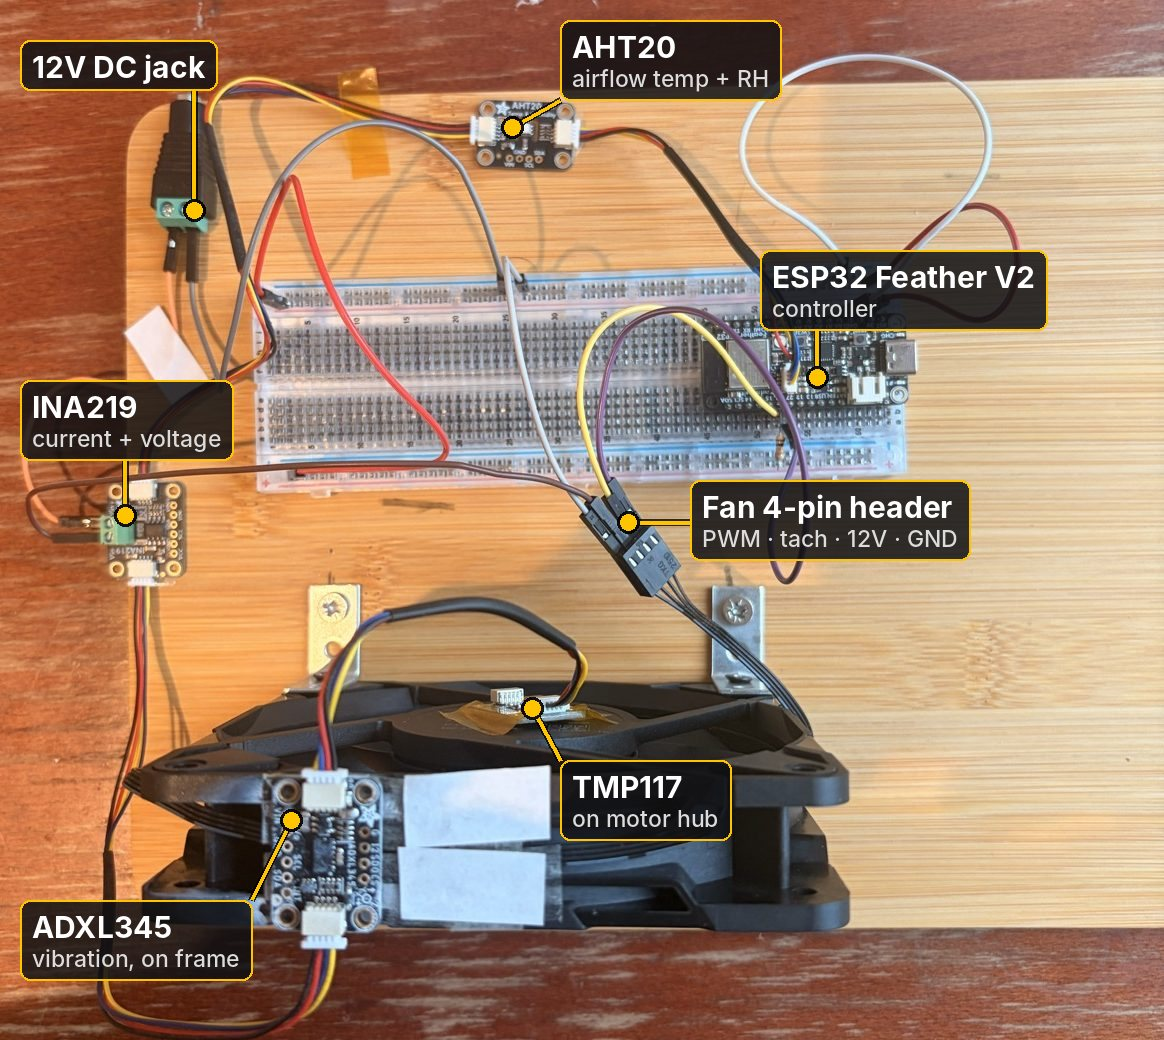
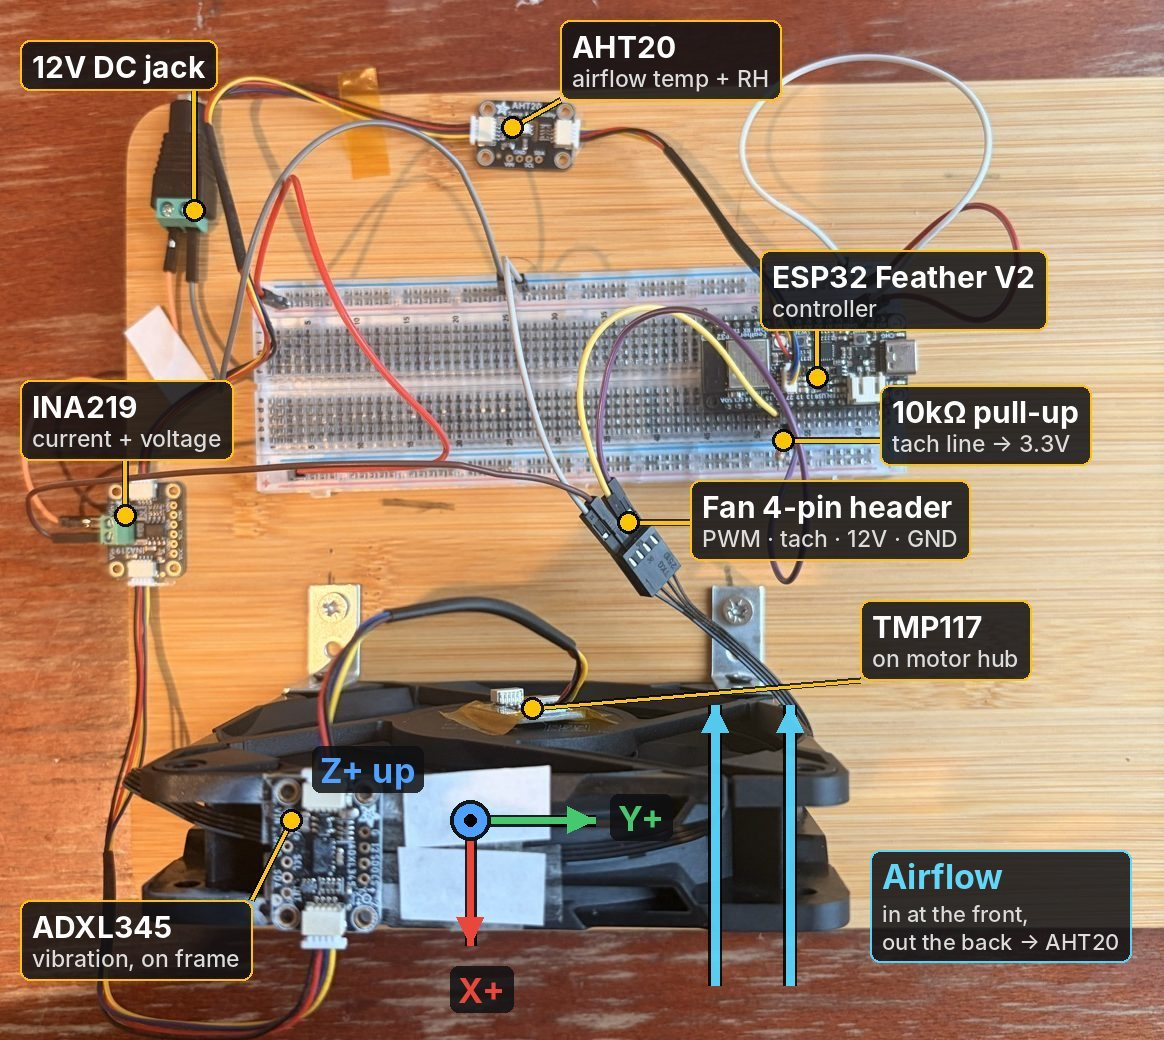
Add hardware doc: parts, wiring, sensor placement and results

diff --git a/docs/00-hardware.md b/docs/00-hardware.md
@@ -1,0 +1,152 @@
+# Phase 0: Hardware
+
+The rig is a 120mm PC fan instrumented with five sensors and controlled by an ESP32. It produces the live data every later phase uses.
+
+![Top-down view of the rig](/docs/images/rig-top.jpg)
+
+## Parts list
+
+| Part | Qty | Purpose | Supplier | Price paid |
+|---|---|---|---|---|
+| Adafruit ESP32 Feather V2 | 1 | Controller: reads sensors, drives the fan, Wi-Fi | [The Pi Hut](https://thepihut.com/products/adafruit-esp32-feather-v2-with-headers-8mb-flash-2-mb-psram-stemma-qt) | £20.20 |
+| Arctic P12 Pro (4-pin PWM, 600–3,000 RPM, 12V 0.33A) | 1 | The fan: the equipment being monitored | [Amazon UK](https://amzn.eu/d/000mpiWH) | £7.99 |
+| Adafruit ADXL345 (STEMMA QT) | 1 | Vibration (3-axis accelerometer) | [The Pi Hut](https://thepihut.com/collections/maker-store/products/adafruit-adxl345-triple-axis-accelerometer-2g-4g-8g-16g-w-i2c-spi) | £16.80 |
+| Adafruit INA219 (STEMMA QT) | 1 | Fan current and voltage | [The Pi Hut](https://thepihut.com/products/adafruit-ina219-high-side-dc-current-sensor-breakout-26v-3-2a-max) | £9.60 |
+| Adafruit TMP117 (STEMMA QT) | 1 | Motor hub temperature (±0.1°C) | [The Pi Hut](https://thepihut.com/products/adafruit-tmp117-0-1-c-high-accuracy-i2c-temperature-sensor) | £11.10 |
+| Adafruit AHT20 (STEMMA QT) | 1 | Airflow temperature and humidity | [The Pi Hut](https://thepihut.com/products/adafruit-aht20-temperature-humidity-sensor-breakout-board) | £4.40 |
+| STEMMA QT cable, 100mm | 3 | I²C daisy chain | [The Pi Hut](https://thepihut.com/collections/maker-store/products/stemma-qt-qwiic-jst-sh-4-pin-cable-100mm-long) | £1.00 each |
+| STEMMA QT cable, 200mm | 2 | I²C daisy chain (longer runs) | [The Pi Hut](https://thepihut.com/collections/maker-store/products/stemma-qt-qwiic-jst-sh-4-pin-cable-200mm-long) | £1.00 each |
+| 12V 2A power supply, 5.5×2.1mm barrel | 1 | Fan power | [The Pi Hut](https://thepihut.com/products/12v-2a-power-supply-with-2-1mm-barrel-jack) | £12.50 |
+| Female DC jack to screw terminal, 5.5×2.1mm | 1 | Connects the supply to jumper wires | [Amazon UK](https://amzn.eu/d/09xDz482) | £3.99 (pack of 10, M/F) |
+| Full-size breadboard | 1 | Wiring | [The Pi Hut](https://thepihut.com/collections/maker-store/products/full-sized-breadboard-transparent) | £5.00 |
+| Jumper wires (M–M, M–F, F–F) | 1 set | Wiring (only M–M needed) | [The Pi Hut](https://thepihut.com/products/maker-essentials-mini-breadboards-jumper-jerky) | £11.10 |
+| 10kΩ resistors, pack of 25 | 1 | Tach pull-up | [The Pi Hut](https://thepihut.com/products/through-hole-resistors-10k-ohm-5-1-4w-pack-of-25) | £0.80 |
+| USB-C to USB-C cable, 1m (data, not charge-only) | 1 | Power and serial to the computer | [The Pi Hut](https://thepihut.com/products/usb-c-to-usb-c-cable-white?variant=42520371069123) | £3.50 |
+| L-brackets + screws | 2 | Fan mount | [Amazon UK](https://www.amazon.co.uk/dp/B0CRRDJR8L) | £5.99 (pack of 32) |
+| Kapton (heat-resistant) tape | — | Holding the TMP117 on the hub; tidying cables | [Amazon UK](https://www.amazon.co.uk/dp/B0G2LBZPT2) | £3.39 |
+| Thermal conductive silicone pads | 1 pack of 6 | Thermal contact between the TMP117 chip and the motor hub | [Amazon UK](https://www.amazon.co.uk/dp/B07X38254H) | £5.55 |
+| Double-sided tape | — | Mounting the sensor boards to the base | [Amazon UK](https://www.amazon.co.uk/dp/B004JRM99K) | £3.75 |
+| Superglue | — | Rigidly fixing the ADXL345 to the fan frame | Any | — |
+| Wooden board (a chopping board 😉) | 1 | Base | [Amazon UK](https://www.amazon.co.uk/dp/B0DRYF9GVZ) | £7.21 |
+
+**Total:** about £142 for parts (including £3.80 Pi Hut shipping), plus tools.
+
+### Tools
+
+| Tool | Used for | Link |
+|---|---|---|
+| Precision screwdriver set | Screw terminals on the DC jack and INA219 | [Amazon UK](https://www.amazon.co.uk/dp/B0D633J3C7) (£10.99) |
+| Drill + screwdriver | Fixing the L-brackets to the base | Any |
+
+## Wiring
+
+```mermaid
+flowchart LR
+    PSU["12V DC supply"] -->|"+12V"| INA["INA219<br/>0x40"]
+    INA -->|"VIN− → fan +12V"| FAN["Arctic P12 Pro"]
+    PC["Computer"] -->|"USB-C"| ESP["ESP32 Feather V2"]
+    ESP -->|"PWM 25kHz · pin 27 → fan pin 4"| FAN
+    FAN -->|"Tach · fan pin 3 → pin 33<br/>10kΩ pull-up to 3.3V"| ESP
+    ESP ---|"I²C · STEMMA QT"| AHT["AHT20<br/>0x38"]
+    AHT --- INA
+    INA --- TMP["TMP117<br/>0x48"]
+    TMP --- ADX["ADXL345<br/>0x53"]
+    PSU -.-|"shared GND"| ESP
+```
+
+### Fan control and speed
+
+| Signal | ESP32 pin | Fan pin | Wire | Notes |
+|---|---|---|---|---|
+| PWM | 27 | 4 | Purple | 25kHz, 8-bit duty. The fan stops below about 5% duty |
+| Tach | 33 | 3 | Yellow | Open-collector: needs a 10kΩ pull-up to 3.3V. 2 pulses per revolution |
+
+![ESP32 pins, tach pull-up and PWM](images/wiring-tach-pullup.jpg)
+
+![PWM and tach to the fan connector](images/wiring-esp32-fan-header.jpg)
+
+### Power path
+
+12V goes from the jack into the INA219's **VIN+**, through its 0.1Ω shunt, out of the **VIN−** into the fan's +12V (fan pin 2). The INA219 measures current from the voltage drop across the shunt. The **ground is shared** between the 12V supply, the fan and the ESP32. Without it, PWM and tach have no common reference.
+
+![Power path: jack → INA219 → fan](images/wiring-power-path.jpg)
+
+![INA219 close-up](images/sensor-ina219.jpg)
+
+### Sensor bus (I²C)
+
+All four sensors daisy-chain over STEMMA QT cables from the ESP32's QT port. The firmware must set `NEOPIXEL_I2C_POWER` HIGH to power the port.
+
+| Sensor | Address | Measures |
+|---|---|---|
+| AHT20 | 0x38 | Airflow temperature, humidity |
+| INA219 | 0x40 | Fan current, bus voltage |
+| TMP117 | 0x48 | Hub temperature |
+| ADXL345 | 0x53 | Vibration (x, y, z) |
+
+## Sensor placement and why
+
+| Sensor | Where | Why |
+|---|---|---|
+| ADXL345 | Superglued to the top of the fan frame | Picks up imbalance and rocking where they're strongest. It's glued, not taped: tape let it shift, and any movement changes vibration readings between sessions |
+| TMP117 | On the motor hub, chip side down on a small piece of thermal pad, held with Kapton tape | Bearing and motor heat show up here first; the pad gives good thermal contact |
+| AHT20 | On the base, **in the fan's airflow** | Acts as an airflow proxy: blocked airflow makes it warm up |
+| INA219 | In the 12V line | Current rises with load, friction or a stall |
+
+![ADXL345 on the frame](images/sensor-adxl345-frame.jpg)
+
+![TMP117 on the hub](images/sensor-tmp117-hub.jpg)
+
+![AHT20 in the airflow](images/sensor-aht20-airflow.jpg)
+
+### ADXL345 orientation
+
+Flat on top of the frame, chip side up.
+
+| Axis | Direction | How it was confirmed |
+|---|---|---|
+| X | Front–back, along the airflow (the rocking direction). X+ points away from the breadboard | Board silkscreen; check with the tilt test |
+| Y | Side to side, along the top of the frame | Board silkscreen; check with the tilt test |
+| Z | Vertical, out of the board. Z+ points up | Reads ~+9.1 m/s² at rest: gravity |
+
+The axes are marked on the ADXL345 photo above and on the top-down photo at the start of this doc.
+
+**Tilt test:** with the fan off, run `all_sensors` and tip the whole board so the fan's front dips about 20°. `ax` should change by roughly ±3 m/s² and `ay` should barely move. If it's the other way round, swap X and Y here.
+
+**Airflow direction:** air enters at the front of the fan and leaves through the back (the strut side, where the TMP117 sits), blowing across the breadboard towards the AHT20. In ADXL345 terms, air flows in the X− direction.
+
+**Mounting note:** the fan sits in single-sided L-brackets and can rock slightly front to back. That's accepted: the models learn *this* rig's normal, so the setup is kept the same between recordings. A thin strip of cardboard was also used to cushion the base of the fan as the L-brackets raise it sightly.
+
+## Building it
+
+**Step-by-step instructions are in the [build guide](build.md):** what you need for each step, exact wiring, the code to upload, and what you should see before moving on.
+
+The build goes in nine stages, each checked before the next:
+
+1. ESP32 connected to the computer
+2. First sensor (AHT20) reading
+3. All four sensors on the I²C chain
+4. Fan PWM and tach wiring
+5. 12V power path through the INA219
+6. Fan speed control working
+7. All sensors streaming together
+8. Fan and sensors mounted
+9. Fault checks
+
+Problems hit along the way, and their fixes, are in the [build log](build-log.md).
+
+
+## Results
+
+| Duty | RPM |
+|---|---|
+| 40% | ~1,420 |
+| 50% | 1,680 |
+| 60% | 2,010 |
+| 100% | 3,180 |
+
+![Live output from all_sensors](images/output-all-sensors.png)
+
+**Known measurement quirks**
+- **RPM resolution is 30 RPM**: 2 pulses per revolution counted over 1 second, so readings flip between neighbouring values (e.g. 1,404 / 1,432).
+- **Single current readings are noisy (0–86 mA)**: the motor draws current in pulses, and the INA219 samples one instant. Phase 1 firmware averages many readings per second.
